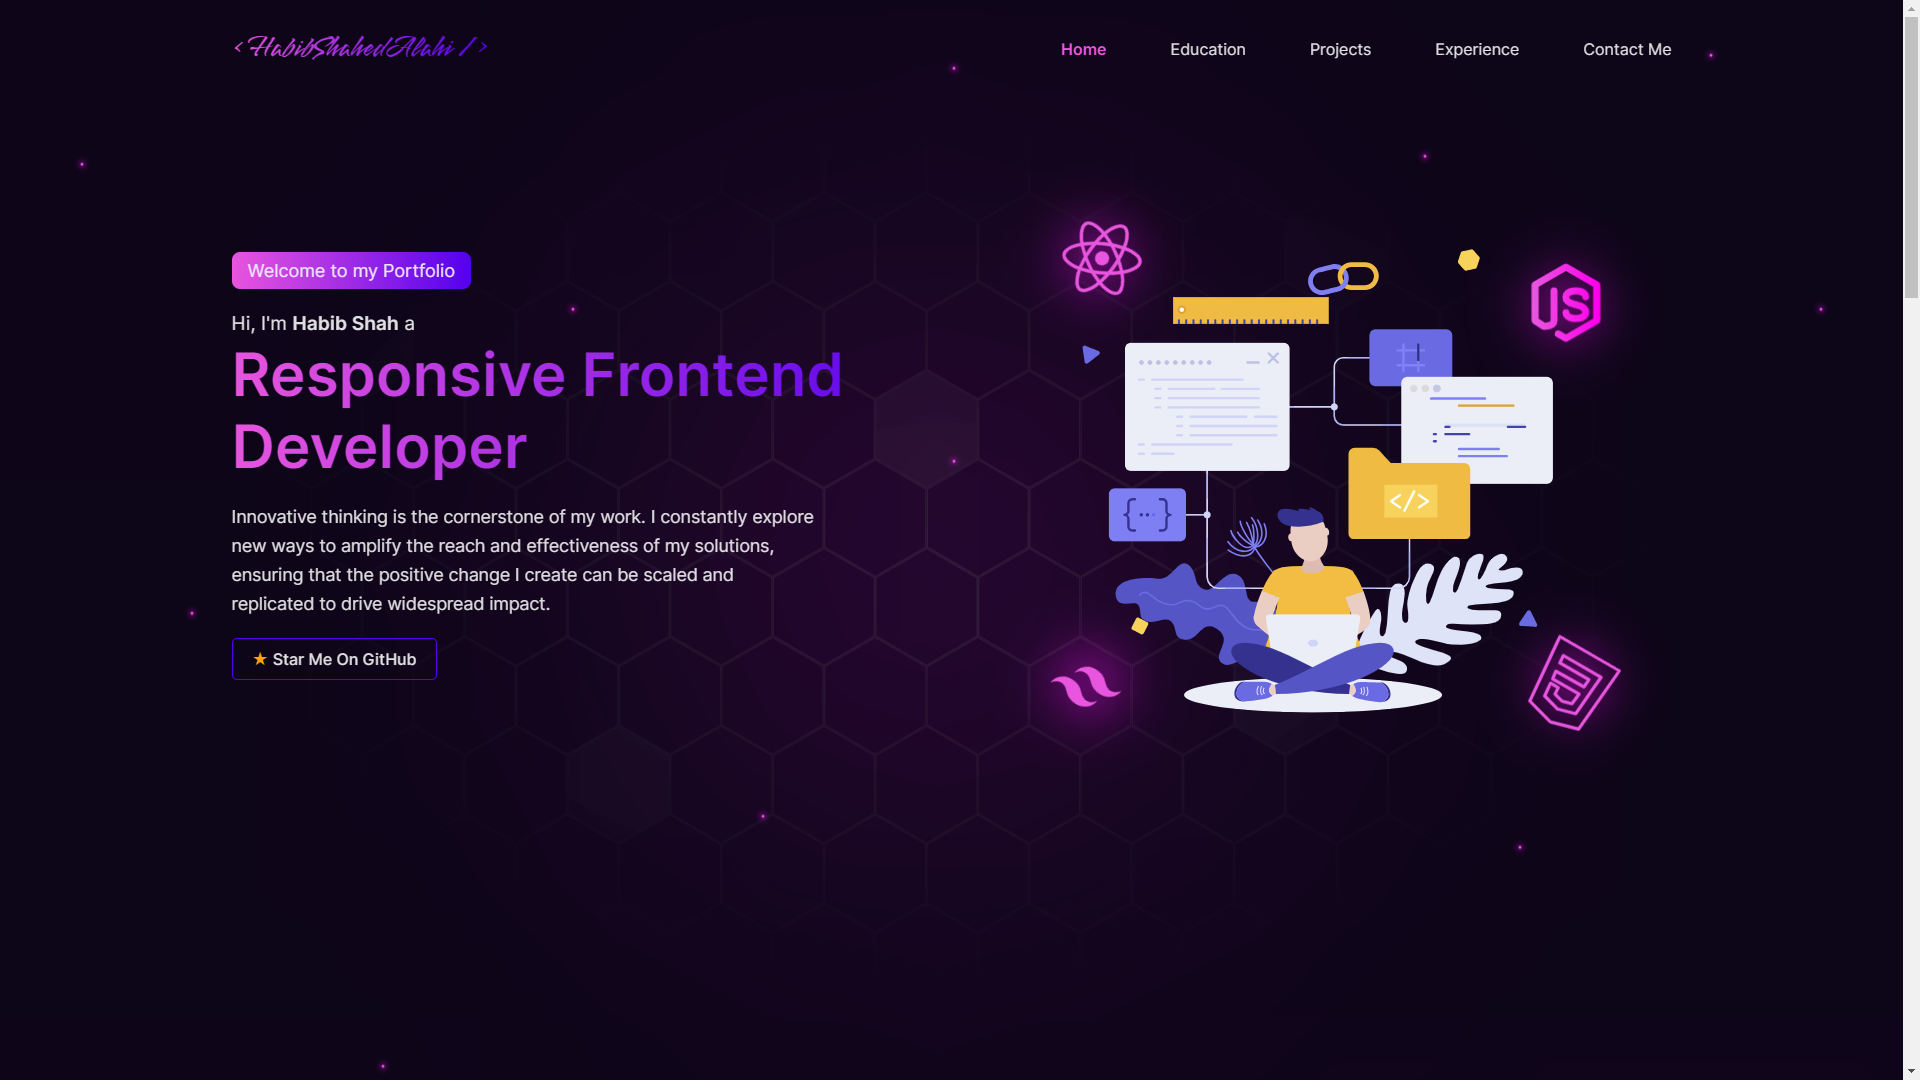
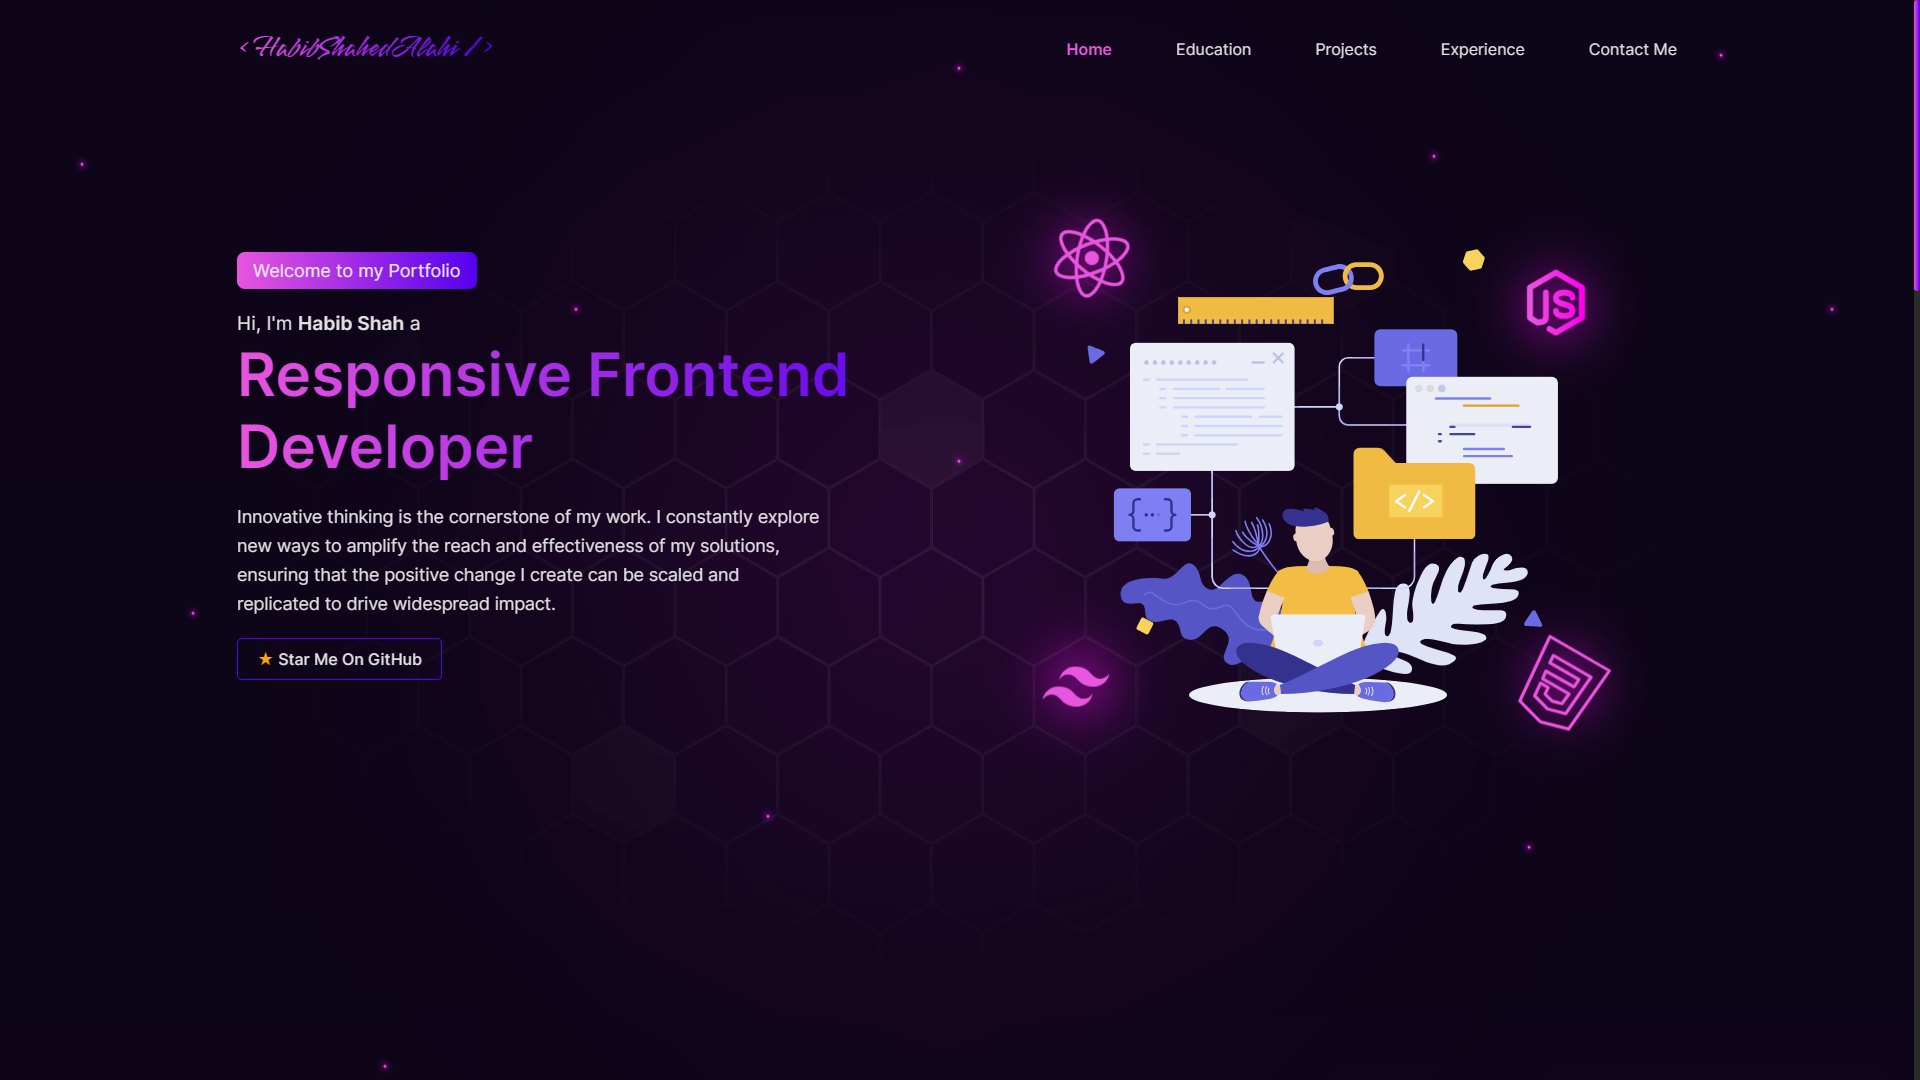
Major updates and error handle

diff --git a/frontend/src/components/constants/index.ts b/frontend/src/components/constants/index.ts
@@ -28,6 +28,7 @@ import w3schools from "../../assets/contribute/w3school.png";
 import codeacademy from "../../assets/contribute/codeacademy.png";
 
 import gub from "../../assets/education/gub.svg";
+import akmr from "../../assets/education/akmr.png";
 
 import hackerrank from "../../assets/website/hackerrank.svg";
 import leetcode from "../../assets/website/leetcode.svg";
@@ -243,7 +244,7 @@ export const educationInfos = [
     institute: "AKM Rahmatullah University College",
     subject: "HSC in Science",
     accomplish: "2017-2019",
-    image: gub,
+    image: akmr,
     details: [
       {
         id: "1",
@@ -258,7 +259,7 @@ export const educationInfos = [
         desc: "I wanted to find a program that would not only challenge me academically but also provide me with hands-on experience in the field.",
       },
     ],
-    link: "https://green.edu.bd/",
+    link: "#",
   },
 ];
 
@@ -267,7 +268,7 @@ export const certifications = [
     id: "1",
     title: "MERN Stack Fundamentals",
     alt: "Great Learning",
-    name: "",
+    name: "-Name Here",
     link: "https://olympus.mygreatlearning.com/courses/105615/certificate",
     image: greatlearning,
   },
@@ -275,15 +276,15 @@ export const certifications = [
     id: "2",
     title: "JavaScript for Beginners",
     alt: "Simply Learn",
-    name: "",
-    link: "https://lms.simplilearn.com/courses/4212/JavaScript-for-Beginners/certificate/download-skillup",
+    name: "-Krishna Kumar",
+    link: "https://drive.google.com/file/d/1ENSVC6394zdVAlAakDzUp0t3dJER2STn/view",
     image: simplylearn,
   },
   {
     id: "3",
     title: "JavaScript Specialist",
     alt: "Great Learning",
-    name: "",
+    name: "-Name Here",
     link: "https://olympus.mygreatlearning.com/courses/105615/certificate",
     image: greatlearning,
   },
@@ -335,7 +336,7 @@ export const projectLists = [
       { id: "4", image: PContact },
     ],
     link: "https://github.com/HabibSha/developers-personal-portfolio",
-    live: "",
+    live: "https://habibshahedalahi.netlify.app",
     projectIcons: [
       { id: "1", title: "ReactJS", icon: react },
       { id: "2", title: "JavaScript", icon: javascript },
@@ -395,7 +396,7 @@ export const projectLists = [
       { id: "5", image: CContact },
     ],
     link: "https://github.com/HabibSha/cyberez-courses",
-    live: "",
+    live: "https://cyberez.netlify.app",
     projectIcons: [
       { id: "1", title: "HTML5", icon: html5 },
       { id: "2", title: "CSS3", icon: css },
@@ -454,7 +455,7 @@ export const projectLists = [
       { id: "5", image: RRegister },
     ],
     link: "https://github.com/HabibSha/red-onion",
-    live: "",
+    live: "https://redonionweb.netlify.app",
     projectIcons: [
       { id: "1", title: "ReactJS", icon: react },
       { id: "2", title: "Redux", icon: redux },
@@ -516,7 +517,7 @@ export const projectLists = [
     img: ecommerce,
     images: [{ id: "1", image: ecommerce }],
     link: "https://github.com/HabibSha/dynamic_ecommerce_app",
-    live: "",
+    live: "#",
     projectIcons: [
       { id: "1", title: "ReactJS", icon: react },
       { id: "2", title: "NodeJS", icon: nodejs },

diff --git a/frontend/src/components/ProjectLists/ProjectLists.tsx b/frontend/src/components/ProjectLists/ProjectLists.tsx
@@ -15,6 +15,7 @@ interface ProjectList {
   title: string;
   img: string;
   link: string;
+  live: string;
   projectIcons: ProjectIcon[];
 }
 
@@ -39,14 +40,14 @@ const ProjectLists: React.FC<Props> = ({ projectLists }) => {
 
   return (
     <section className="relative py-[5rem]">
-      <article className="grid grid-cols-1 md:grid-cols-2 lg:grid-cols-3 gap-10 mt-5">
+      <article className="grid grid-cols-1 md:grid-cols-2 xl:grid-cols-3 gap-10 mt-5">
         {projectLists.map((projectList, index) => {
-          const { id, title, img, link, projectIcons } = projectList;
+          const { id, title, img, link, live, projectIcons } = projectList;
           const slug = title.toLowerCase().replace(/ /g, "-");
           return (
             <div key={id} className="rounded-md bg-glassEffect">
               <div
-                className="w-full h-[10rem] lg:h-[13rem] bg-top hover:bg-bottom duration-1000 ease-linear bg-no-repeat bg-cover rounded-tl-md rounded-tr-md"
+                className="w-full h-[10rem] sm:h-[12rem] lg:h-[14rem] bg-top hover:bg-bottom duration-1000 ease-linear bg-no-repeat bg-cover rounded-tl-md rounded-tr-md"
                 style={{ backgroundImage: `url(${img})` }}
               ></div>
               <motion.div
@@ -68,7 +69,7 @@ const ProjectLists: React.FC<Props> = ({ projectLists }) => {
                     <Link to={link} target="_blank">
                       <FaGithub className="text-[1.4rem]" />
                     </Link>
-                    <Link to="#" target="_blank">
+                    <Link to={live} target="_blank">
                       <FaExternalLinkAlt className="text-xl" />
                     </Link>
                   </div>

diff --git a/frontend/src/components/Header/Header.tsx b/frontend/src/components/Header/Header.tsx
@@ -2,7 +2,7 @@ import { useState, useEffect } from "react";
 
 import { motion } from "framer-motion";
 
-import { NavLink as BaseNavLink, Link } from "react-router-dom";
+import { NavLink, Link } from "react-router-dom";
 import {
   disableBodyScroll,
   enableBodyScroll,
@@ -12,6 +12,7 @@ import { RiMenu4Fill, RiCloseFill } from "react-icons/ri";
 
 import styles from "../../style";
 import "./header.css";
+import BaseNavLink from "./BaseNavLink";
 
 type NavLink = {
   id: string;
@@ -98,7 +99,6 @@ const Header: React.FC<HeaderProps> = ({ navLinks }) => {
                       ? "mr-0"
                       : "mr-[2.8rem] xl:mr-[4rem]"
                   } text-[14px] md:text-[15px] xl:text-[16px] hover:text-colorPink hover:font-[500] duration-300 ease-linear`}
-                  activeClassName="active"
                 >
                   {title}
                 </BaseNavLink>
@@ -132,7 +132,7 @@ const Header: React.FC<HeaderProps> = ({ navLinks }) => {
               const { id, link, title } = navLink;
               return (
                 <li key={id} className={`${styles.flexBetween}`}>
-                  <BaseNavLink
+                  <NavLink
                     to={link}
                     onClick={handleMenuClose}
                     className={`${
@@ -140,7 +140,7 @@ const Header: React.FC<HeaderProps> = ({ navLinks }) => {
                     } hover:text-gradient`}
                   >
                     {title}
-                  </BaseNavLink>
+                  </NavLink>
                 </li>
               );
             })}

diff --git a/frontend/src/index.css b/frontend/src/index.css
@@ -26,6 +26,19 @@ html {
   scroll-behavior: smooth;
 }
 
+html::-webkit-scrollbar {
+  width: 0.4rem;
+}
+
+html::-webkit-scrollbar-track {
+  background: rgb(43, 42, 42);
+}
+
+html::-webkit-scrollbar-thumb {
+  background: linear-gradient(to right, #e855de 0%, #5400ee 100%);
+  border-radius: 1rem;
+}
+
 .text-gradient {
   background: linear-gradient(to right, #e855de 0%, #5400ee 100%);
   -webkit-background-clip: text;

diff --git a/frontend/src/components/ContactHero/ContactHero.tsx b/frontend/src/components/ContactHero/ContactHero.tsx
@@ -88,7 +88,10 @@ const ContactHero: React.FC = () => {
               <FaXTwitter />
             </Link>
           </div>
-          <Link to="#" target="_blank">
+          <Link
+            to="https://drive.google.com/file/d/1dgrrFLwHLx1L1CFyFOLKpJ002KrdNGNo/view"
+            target="_blank"
+          >
             <button className="btnPrimary mt-4">See My Resume</button>
           </Link>
         </div>

diff --git a/frontend/src/components/Certification/Certification.tsx b/frontend/src/components/Certification/Certification.tsx
@@ -70,7 +70,7 @@ const Certification: React.FC<Props> = ({ certifications }) => {
               </Link>
               <div className="text-center my-4">
                 <h5 className="h6">{title}</h5>
-                <p className="text-gray-500 body-1 mt-1">-Name Here</p>
+                <p className="text-gray-500 body-1 mt-1">{name}</p>
               </div>
             </div>
           );

diff --git a/frontend/src/main.tsx b/frontend/src/main.tsx
@@ -3,9 +3,11 @@ import ReactDOM from "react-dom/client";
 import App from "./App.tsx";
 import "./index.css";
 import { BrowserRouter } from "react-router-dom";
+import ScrollToTop from "./components/ScrollToTop/ScrollToTop.tsx";
 
 ReactDOM.createRoot(document.getElementById("root")!).render(
   <BrowserRouter>
+    <ScrollToTop />
     <React.StrictMode>
       <App />
     </React.StrictMode>

diff --git a/frontend/src/components/Header/BaseNavLink.tsx b/frontend/src/components/Header/BaseNavLink.tsx
@@ -1,0 +1,15 @@
+import { NavLink, NavLinkProps } from "react-router-dom";
+import "./header.css";
+
+const BaseNavLink: React.FC<NavLinkProps> = ({ to, children, className }) => {
+  return (
+    <NavLink
+      to={to}
+      className={({ isActive }) => `${className} ${isActive ? "active" : ""}`}
+    >
+      {children}
+    </NavLink>
+  );
+};
+
+export default BaseNavLink;

diff --git a/frontend/src/components/EduGraduation/EduGraduation.tsx b/frontend/src/components/EduGraduation/EduGraduation.tsx
@@ -27,7 +27,7 @@ interface Props {
 
 const EduGraduation: React.FC<Props> = ({ educationInfos }) => {
   return (
-    <section className="relative py-[5rem]">
+    <section className="relative py-[5rem] overflow-hidden">
       <article className="text-center">
         <motion.h2
           initial={{ y: 30, opacity: 0 }}

diff --git a/frontend/src/components/ProjectDetail/ProjectDetail.tsx b/frontend/src/components/ProjectDetail/ProjectDetail.tsx
@@ -135,7 +135,7 @@ const ProjectDetail: React.FC<Props> = ({ projectLists }) => {
               className="flex items-center gap-2 btnSecondary"
             >
               <FaExternalLinkAlt />
-              <span>Live</span>
+              <span>Preview</span>
             </Link>
           </div>
         </div>

diff --git a/frontend/src/components/ScrollToTop/ScrollToTop.tsx b/frontend/src/components/ScrollToTop/ScrollToTop.tsx
@@ -1,0 +1,14 @@
+import { useEffect } from "react";
+import { useLocation } from "react-router-dom";
+
+const ScrollToTop: React.FC = () => {
+  const { pathname } = useLocation();
+
+  useEffect(() => {
+    window.scrollTo(0, 0);
+  }, [pathname]);
+
+  return null;
+};
+
+export default ScrollToTop;
